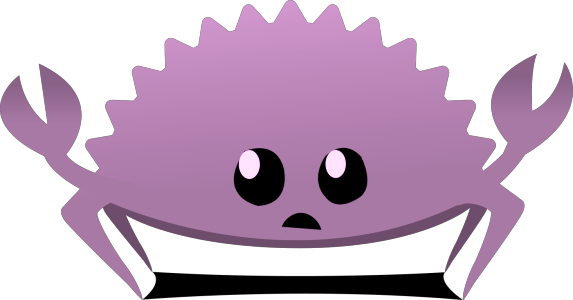
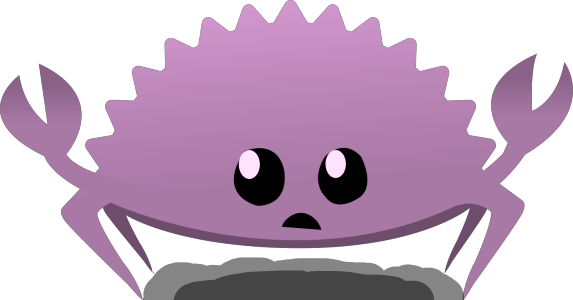
Quad rotation

Changed region(s): [[0.2373, 0.84, 0.8307, 1.0]]

diff --git a/src/main.rs b/src/main.rs
@@ -576,7 +576,7 @@ fn main() -> Result<(), Box<dyn Error>> {
             })
             .collect();
 
-        let vertices = make_quad_vertices(0.0, 0.0, 0.5, 0.5);
+        let vertices = make_quad_vertices(0.0, 0.0, 0.5, 0.5, 0.0);
 
         let mut quads = CoherentQuads::new(10, base.shared_device(), base.device_memory_properties);
         for _ in 0..10 {
@@ -593,7 +593,7 @@ fn main() -> Result<(), Box<dyn Error>> {
 
         let ubo = VulkanUniformBufferObject::new_from_vec3(uniform_color_buffer_data, base.shared_device(), base.device_memory_properties);
 
-        let img = VulkanImage::new_from_bytes(include_bytes!("../assets/rust.png"), base.shared_device(), base.device_memory_properties);
+        let img = VulkanImage::new_from_bytes(include_bytes!("../assets/rust_2.png"), base.shared_device(), base.device_memory_properties);
         let tex = VulkanTexture::new_from_image(&img, base.shared_device(), base.device_memory_properties);
         let image_extent = img.extent();
 
@@ -928,8 +928,10 @@ fn main() -> Result<(), Box<dyn Error>> {
 
             for quad_id in 0..quads.quad_quantity() {
                 let distance_from_zero = (frame as f32 / ((quad_id as f32 + 1.0) * 43.0)).sin() / 2.0 + 0.5;
+                let y_position = (frame as f32 / 43.0).sin() / 2.0 - 1.0;
+                let rotation = (frame as f32 / 43.0).cos() / 2.0;
 
-                quads.modify_quad(quad_id, make_quad_vertices(quad_id as f32 / quads.quad_quantity() as f32 - 1.0, -distance_from_zero, distance_from_zero * 2.0, distance_from_zero * 2.0));
+                quads.modify_quad(quad_id, make_quad_vertices(quad_id as f32 / quads.quad_quantity() as f32 - 1.0, y_position, distance_from_zero * 2.0, distance_from_zero * 2.0, rotation));
             }
 
             quads.remap_data();

diff --git a/src/engine/vertex_generation.rs b/src/engine/vertex_generation.rs
@@ -1,7 +1,22 @@
 use super::vertex::Vertex;
 
-pub fn make_quad_vertices(x: f32, y: f32, width: f32, height: f32) -> [Vertex; 4] {
-    [
+pub fn rotate_quad_vertices(vertices: [Vertex; 4], rotation: f32) -> [Vertex; 4] {
+    let center_x = (vertices[0].pos[0] + vertices[2].pos[0]) / 2.0;
+    let center_y = (vertices[0].pos[1] + vertices[2].pos[1]) / 2.0;
+    let sin = rotation.sin();
+    let cos = rotation.cos();
+    let mut new_vertices = vertices;
+    for vertex in new_vertices.iter_mut() {
+        let x = vertex.pos[0] - center_x;
+        let y = vertex.pos[1] - center_y;
+        vertex.pos[0] = x * cos - y * sin + center_x;
+        vertex.pos[1] = x * sin + y * cos + center_y;
+    }
+    new_vertices
+}
+
+pub fn make_quad_vertices(x: f32, y: f32, width: f32, height: f32, rotation: f32) -> [Vertex; 4] {
+    let unrotated = [
         Vertex {
             pos: [x, y, 0.0, 1.0],
             uv: [0.0, 0.0],
@@ -18,5 +33,11 @@ pub fn make_quad_vertices(x: f32, y: f32, width: f32, height: f32) -> [Vertex; 4
             pos: [x + width, y, 0.0, 1.0],
             uv: [1.0, 0.0],
         },
-    ]
+    ];
+
+    if rotation != 0.0 {
+        rotate_quad_vertices(unrotated, rotation)
+    } else {
+        unrotated
+    }
 }

diff --git a/scripts/build_shaders.rs b/scripts/build_shaders.rs
@@ -1,0 +1,24 @@
+pub fn main() {
+    let project_base_path = std::env::var("CARGO_MANIFEST_DIR").unwrap();
+    let project_base_path = std::path::Path::new(&project_base_path);
+
+    let relative_shader_files = [
+        ("shader/texture/texture.vert", "shader/texture/vert.spv"),
+        ("shader/texture/texture.frag", "shader/texture/frag.spv"),
+    ];
+
+    let absolute_shader_files = relative_shader_files
+        .iter()
+        .map(|(src, dst)| (project_base_path.join(src), project_base_path.join(dst)))
+        .collect::<Vec<_>>();
+
+    for (src, dst) in absolute_shader_files.iter() {
+        println!("cargo:rerun-if-changed={}", src.to_str().unwrap());
+        std::process::Command::new("glslc")
+            .arg(src)
+            .arg("-o")
+            .arg(dst)
+            .status()
+            .expect("Failed to compile shader");
+    }
+}
